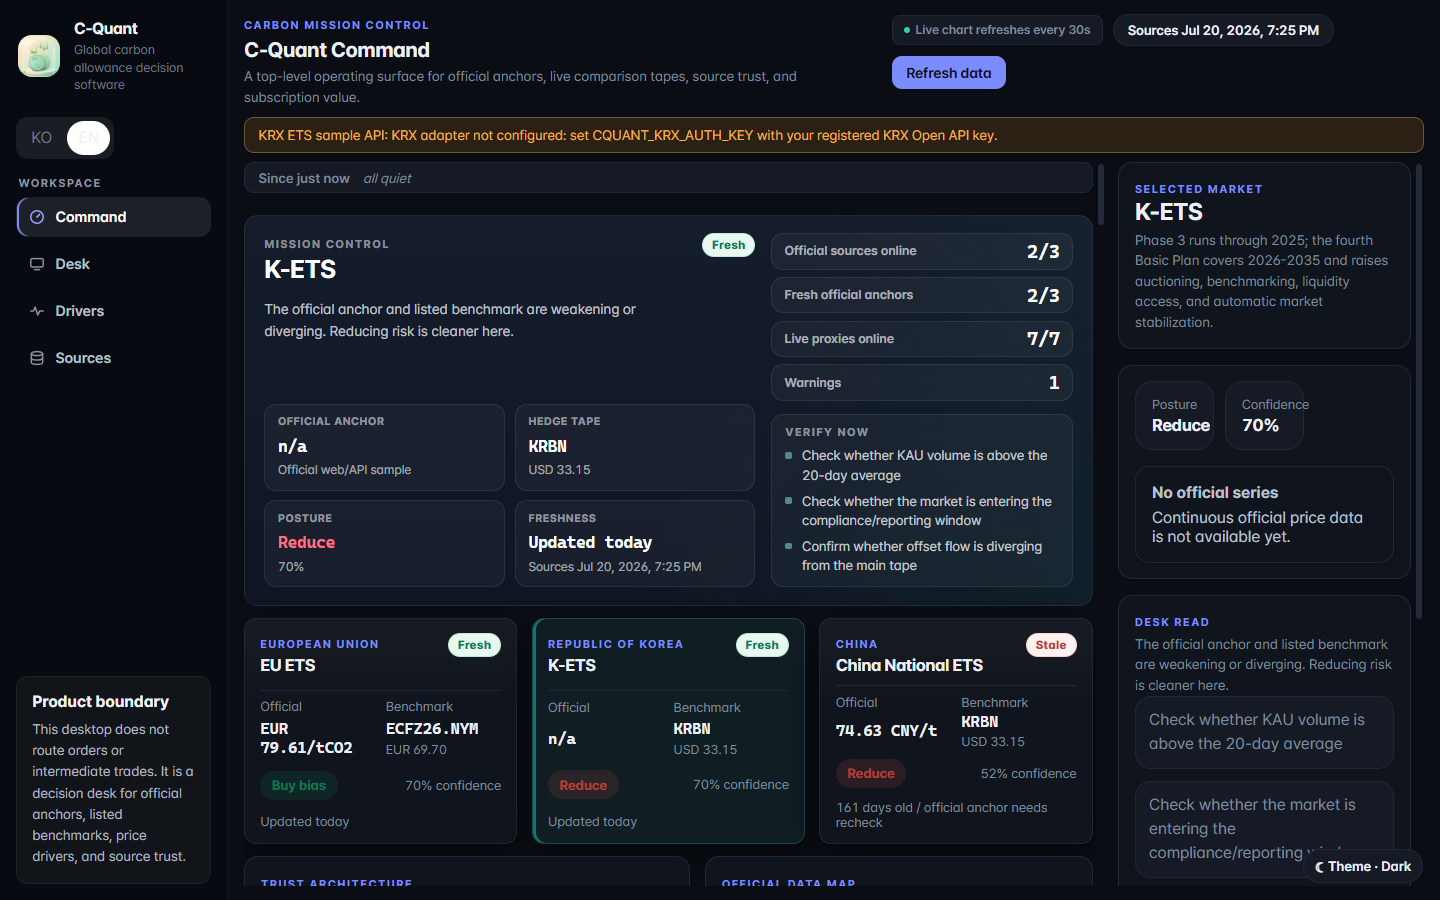
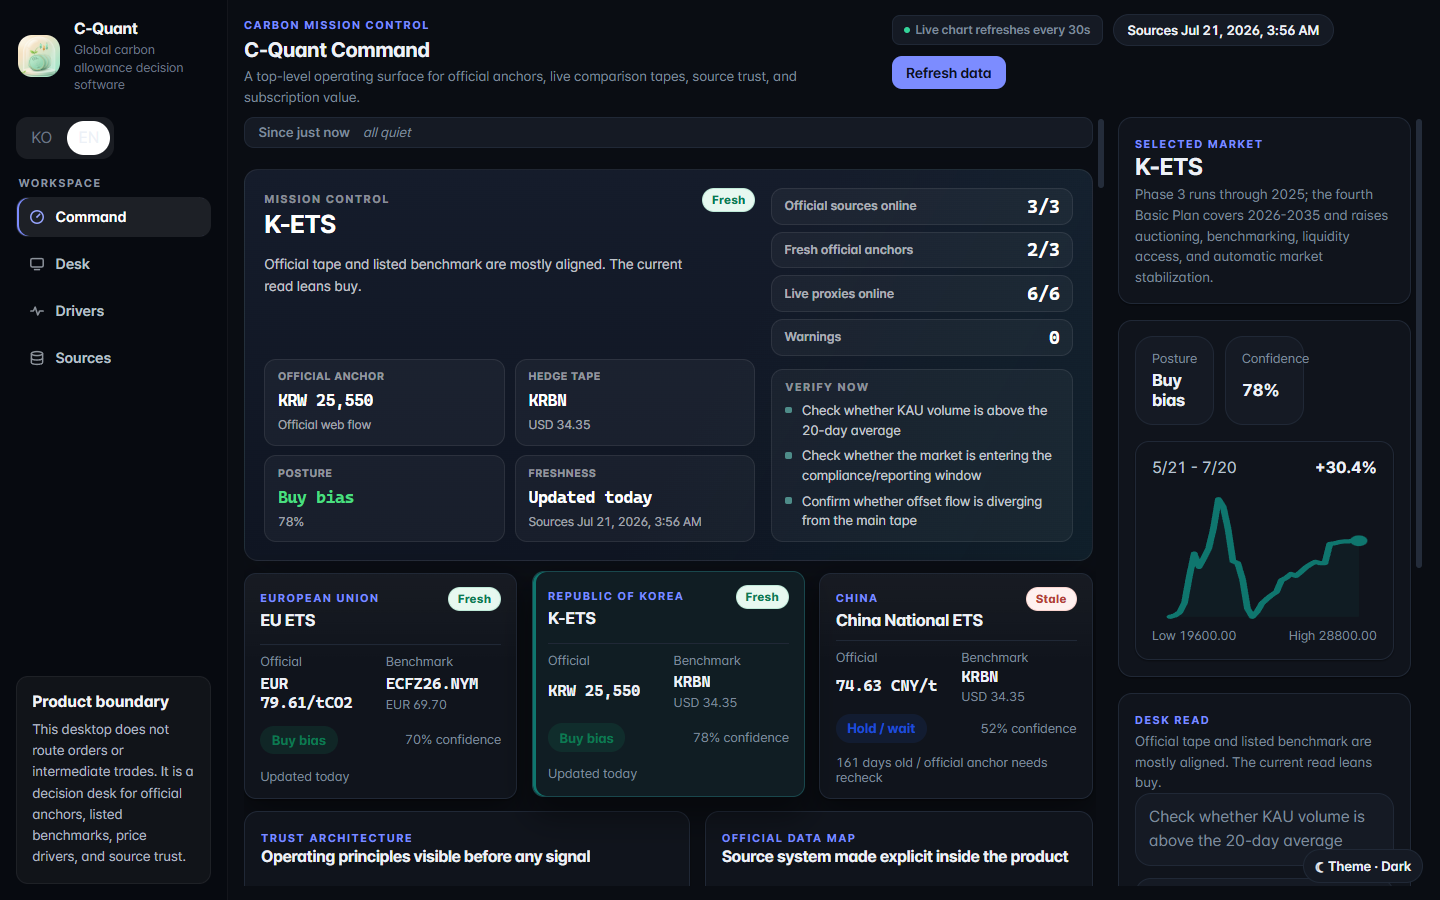
feat(k-ets): official data without an API key via the public web flow
The K-ETS card previously errored out of the box ('KRX adapter not
configured') until the user registered a personal KRX Open API key.
The public ets.krx.co.kr price page needs no key — it issues a
short-lived token from GenerateOTP.jspx and POSTs it to
ETS99000001.jspx (bld ETS/03/03010000/ets03010000_05). The adapter now
performs that same official web flow by default:

- keyless path: 60-day window fetch, compliance-active KAU vintage
  selected by traded volume (same rule as the API path), card carries
  close/change/return/volume metrics plus a ~40-session official daily
  series with OHLC candles — also filling the 'No official series'
  panel for K-ETS.
- CQUANT_KRX_AUTH_KEY still switches to the documented Open API sample
  endpoint; getOfficialMethod labels whichever path served the data
  ('Official web flow' vs 'Official web/API sample').
- Sources notes state the provenance honestly; KO translations added.

Live-verified end to end: KAU25 close 25,550 KRW (2026-07-20), 40-point
series, zero payload warnings; Electron captures show the banner gone,
3/3 official sources online, and the official-series chart rendering.
Full ladder green: type-check, lint, format, 234+55 tests, ci:verify,
build, bundle, encoding, e2e.

diff --git a/electron/liveSources.js b/electron/liveSources.js
@@ -10,10 +10,11 @@ const KRX_SAMPLE_API_URL = "https://data-dbg.krx.co.kr/svc/sample/apis/gen/ets_b
 // KRX Open API portal "My Page", subject to approval). Set
 // CQUANT_KRX_AUTH_KEY in the environment to enable the K-ETS adapter.
 const KRX_AUTH_KEY = (process.env.CQUANT_KRX_AUTH_KEY ?? "").trim();
-// Reserved for the eventual KRX scraping path (currently unused — the KRX
-// sample API covers the same surface). Prefixed with _ to silence eslint.
-const _KRX_DATA_URL = "https://ets.krx.co.kr/contents/ETS/99/ETS99000001.jspx";
-const _KRX_OTP_URL = "https://ets.krx.co.kr/contents/COM/GenerateOTP.jspx";
+// Keyless official web flow: the OTP + data POST pair the public
+// ets.krx.co.kr price page performs in the browser. Used as the default
+// K-ETS adapter when no CQUANT_KRX_AUTH_KEY is configured.
+const KRX_DATA_URL = "https://ets.krx.co.kr/contents/ETS/99/ETS99000001.jspx";
+const KRX_OTP_URL = "https://ets.krx.co.kr/contents/COM/GenerateOTP.jspx";
 const MEE_LIST_URL = "https://www.mee.gov.cn/ywgz/ydqhbh/wsqtkz/";
 const YAHOO_CHART_BASE_URL = "https://query1.finance.yahoo.com/v8/finance/chart";
 const YAHOO_PROVIDER_LABEL = "Yahoo Finance web chart feed";
@@ -725,7 +726,170 @@ async function fetchEuEtsCard() {
   });
 }
 
+function parseKrxNumber(value) {
+  const numeric = Number(String(value ?? "").replace(/,/g, ""));
+  return Number.isFinite(numeric) ? numeric : null;
+}
+
+/**
+ * Keyless official web flow: the same OTP + data POST the public
+ * ets.krx.co.kr price page performs in the browser. No login or API
+ * key is involved — this is the price table every visitor sees.
+ * Returns rows across the requested compact-date range.
+ */
+async function fetchKrxWebFlowRows(fromCompact, toCompact) {
+  const otp = await fetchText(
+    `${KRX_OTP_URL}?bld=${encodeURIComponent("ETS/03/03010000/ets03010000_05")}&name=grid`,
+    { headers: { ...DEFAULT_HEADERS, referer: KRX_MARKET_PAGE_URL } },
+    15000
+  );
+  const code = otp.trim();
+  if (!code || code.length < 32 || code.includes("<")) {
+    throw new Error("KRX ETS page did not issue a data token (OTP).");
+  }
+
+  const body = new URLSearchParams({
+    code,
+    fromdate: fromCompact,
+    todate: toCompact,
+    pagePath: "/contents/ETS/03/03010000/ETS03010000.jsp"
+  });
+  const payload = await fetchJson(
+    KRX_DATA_URL,
+    {
+      method: "POST",
+      headers: {
+        ...DEFAULT_HEADERS,
+        referer: KRX_MARKET_PAGE_URL,
+        "content-type": "application/x-www-form-urlencoded; charset=UTF-8"
+      },
+      body: body.toString()
+    },
+    20000
+  );
+
+  const rows = Array.isArray(payload?.DS1) ? payload.DS1 : [];
+  if (rows.length === 0) {
+    throw new Error("KRX ETS price page returned no rows for the requested range.");
+  }
+  return rows;
+}
+
+async function fetchKrxCardViaWebFlow() {
+  const now = new Date();
+  const from = new Date(now.getTime() - 60 * 24 * 60 * 60 * 1000);
+  const toCompact = now.toISOString().slice(0, 10).replace(/-/g, "");
+  const fromCompact = from.toISOString().slice(0, 10).replace(/-/g, "");
+
+  const rows = await withCache(`krx-webflow:${toCompact}`, KRX_DAY_CACHE_TTL_MS, () =>
+    fetchKrxWebFlowRows(fromCompact, toCompact)
+  );
+
+  // Group by instrument (KAU vintages, KOC, ...) and pick the KAU with
+  // the highest traded volume across the window — the compliance-active
+  // vintage, matching the sample-API selection rule.
+  const byInstrument = new Map();
+  for (const row of rows) {
+    const name = normalizeWhitespace(row?.isu_eng_abbrv ?? "");
+    if (!name) continue;
+    if (!byInstrument.has(name)) byInstrument.set(name, []);
+    byInstrument.get(name).push(row);
+  }
+
+  let activeName = "";
+  let activeVolume = -1;
+  for (const [name, instrumentRows] of byInstrument) {
+    if (!/^KAU/i.test(name)) continue;
+    const volume = instrumentRows.reduce(
+      (sum, row) => sum + (parseKrxNumber(row.acc_trdvol) ?? 0),
+      0
+    );
+    if (volume > activeVolume) {
+      activeVolume = volume;
+      activeName = name;
+    }
+  }
+  if (!activeName) {
+    throw new Error("KRX ETS price page returned no KAU rows.");
+  }
+
+  const series = byInstrument
+    .get(activeName)
+    .map((row) => {
+      const close = parseKrxNumber(row.tdd_clsprc);
+      const open = parseKrxNumber(row.tdd_opnprc);
+      const high = parseKrxNumber(row.tdd_hgprc);
+      const low = parseKrxNumber(row.tdd_lwprc);
+      return {
+        date: normalizeWhitespace(row.trd_dd ?? ""),
+        value: close,
+        close,
+        // Zero OHLC rows mean "no session trades printed"; keep only real candles.
+        ...(open && high && low ? { open, high, low } : {}),
+        volume: parseKrxNumber(row.acc_trdvol) ?? 0
+      };
+    })
+    .filter((point) => /^\d{4}-\d{2}-\d{2}$/.test(point.date) && point.value !== null)
+    .sort((a, b) => a.date.localeCompare(b.date));
+
+  if (series.length === 0) {
+    throw new Error("KRX ETS price page rows had no parsable closes.");
+  }
+
+  const latestPoint = series[series.length - 1];
+  const latestRow = byInstrument
+    .get(activeName)
+    .find((row) => normalizeWhitespace(row.trd_dd ?? "") === latestPoint.date);
+  const change = parseKrxNumber(latestRow?.cmpprevdd_prc) ?? 0;
+  const returnPct = parseKrxNumber(latestRow?.fluc_rt) ?? 0;
+  const recentVolumes = series.map((point) => point.volume ?? 0).slice(-20);
+  const averageVolume =
+    recentVolumes.length > 0
+      ? recentVolumes.reduce((sum, value) => sum + value, 0) / recentVolumes.length
+      : 0;
+
+  return {
+    id: "k-ets-official",
+    marketId: "k-ets",
+    sourceName: "KRX ETS information platform",
+    coverage: "Official web flow (daily market tape)",
+    sourceUrl: KRX_MARKET_PAGE_URL,
+    status: "connected",
+    asOf: latestPoint.date,
+    headline: `${activeName} official close`,
+    summary: `Official KRX ETS price-page data for ${activeName} on ${latestPoint.date} (web flow).`,
+    metrics: [
+      { label: "Close", value: `KRW ${formatNumber(latestPoint.value, 0)}` },
+      {
+        label: "Day change",
+        value: `${change >= 0 ? "+" : ""}${formatNumber(change, 0)} KRW`
+      },
+      { label: "Return", value: `${formatNumber(returnPct, 2)}%` },
+      { label: "Volume", value: `${formatNumber(latestPoint.volume ?? 0, 0)} t` },
+      { label: "20d avg volume", value: `${formatNumber(averageVolume, 0)} t` }
+    ],
+    notes: [
+      "Official web flow: the same public data request the KRX ETS price page performs, no API key involved.",
+      "Set CQUANT_KRX_AUTH_KEY to switch to the documented KRX Open API sample endpoint.",
+      "Daily market tape only. Zero-volume rows are preserved as official records."
+    ],
+    series,
+    seriesLabel: "Official close",
+    volumeSeries: series.map((point) => ({
+      date: point.date,
+      value: point.volume ?? 0
+    })),
+    links: makeLinks(
+      { label: "KRX ETS market page", url: KRX_MARKET_PAGE_URL },
+      { label: "KRX Open API detail", url: KRX_OPEN_API_DETAIL_URL }
+    )
+  };
+}
+
 async function fetchKrxCard() {
+  if (!KRX_AUTH_KEY) {
+    return withCache("card:k-ets-official", KRX_CARD_CACHE_TTL_MS, fetchKrxCardViaWebFlow);
+  }
   return withCache("card:k-ets-official", KRX_CARD_CACHE_TTL_MS, async () => {
     const latestSnapshot = await fetchLatestKrxTradingSnapshot();
     const activeInstrument = chooseActiveKrxApiInstrument(latestSnapshot.rows);

diff --git a/src/lib/localization.ts b/src/lib/localization.ts
@@ -532,6 +532,12 @@ const KO_EXACT: Record<string, string> = {
   // Catalyst combinations panel
   "Catalyst combinations": "촉매 조합",
   "Catalyst pattern active": "촉매 패턴 활성화",
+  "KRX ETS information platform": "KRX 배출권시장 정보플랫폼",
+  "Official web flow (daily market tape)": "공식 웹 플로우(일일 시장 테이프)",
+  "Official web flow: the same public data request the KRX ETS price page performs, no API key involved.":
+    "공식 웹 플로우: KRX 배출권 시세 페이지가 수행하는 것과 동일한 공개 데이터 요청이며, API 키가 필요 없습니다.",
+  "Set CQUANT_KRX_AUTH_KEY to switch to the documented KRX Open API sample endpoint.":
+    "CQUANT_KRX_AUTH_KEY를 설정하면 문서화된 KRX Open API 샘플 엔드포인트로 전환됩니다.",
   "What changes when more than one driver fires together":
     "두 개 이상의 드라이버가 동시에 발화할 때 무엇이 바뀌는가",
   "Single events are rare. Most ETS regime shifts come from combinations of two or more drivers firing together. Each row below is a research-backed combination, not an isolated event, and is ranked by the score implied by your current driver weights.":

diff --git a/src/App.tsx b/src/App.tsx
@@ -631,7 +631,11 @@ function getOfficialMethod(card: ConnectedSourceCard | null, locale: AppLocale) 
     return t(locale, "공식 파일", "Official file");
   }
   if (card.id === "k-ets-official") {
-    return t(locale, "공식 웹/API 샘플", "Official web/API sample");
+    // The K-ETS adapter runs keyless against the public price page by
+    // default and switches to the Open API sample when a key is set.
+    return card.coverage?.includes("web flow")
+      ? t(locale, "공식 웹 플로우", "Official web flow")
+      : t(locale, "공식 웹/API 샘플", "Official web/API sample");
   }
   return t(locale, "공식 웹 플로우", "Official web flow");
 }

diff --git a/CHANGELOG.md b/CHANGELOG.md
@@ -4,6 +4,19 @@ All notable changes to C-Quant. We follow [Keep a Changelog](https://keepachange
 
 ## [Unreleased]
 
+### Added — K-ETS official data without an API key
+
+- The K-ETS adapter now works out of the box: when no
+  `CQUANT_KRX_AUTH_KEY` is configured it uses the same public OTP +
+  data request the ets.krx.co.kr price page performs in the browser
+  (labeled `official web flow`), instead of showing a not-configured
+  error. Live verification: KAU25 close, day change, volume, and a
+  ~40-session official daily series (with OHLC candles) — which also
+  fills the "No official series" gap on the K-ETS chart panel.
+- Setting `CQUANT_KRX_AUTH_KEY` still switches to the documented KRX
+  Open API sample endpoint; the access-method label follows whichever
+  path served the data.
+
 ### Fixed
 
 - Windows resource editing re-enabled: `win.signAndEditExecutable:
